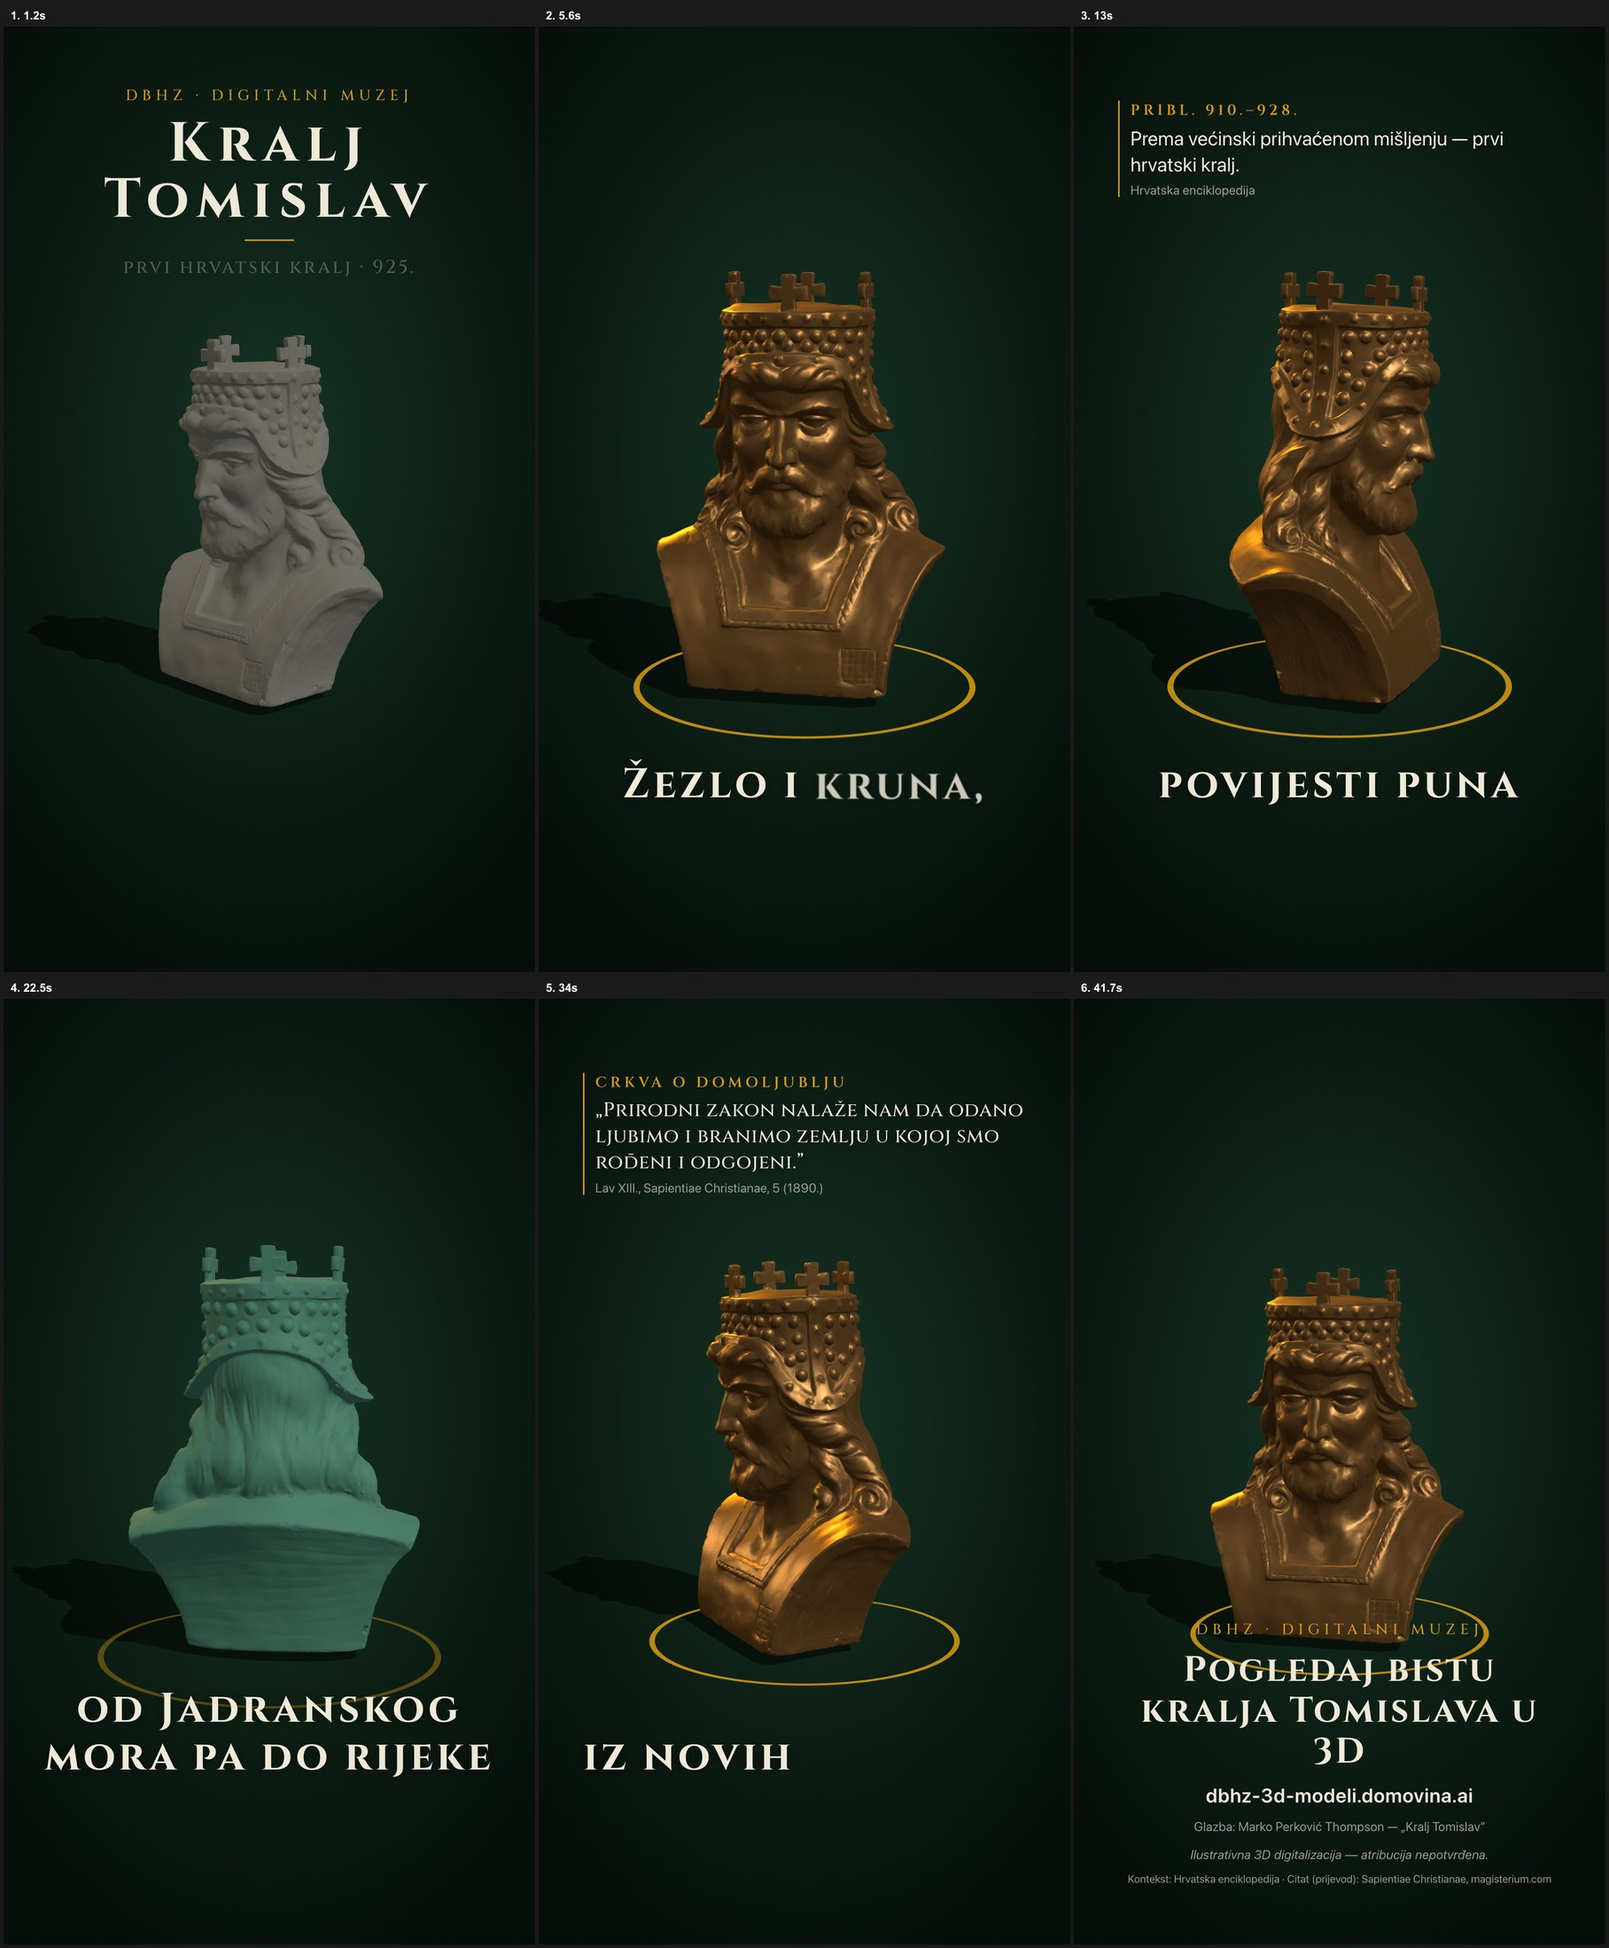
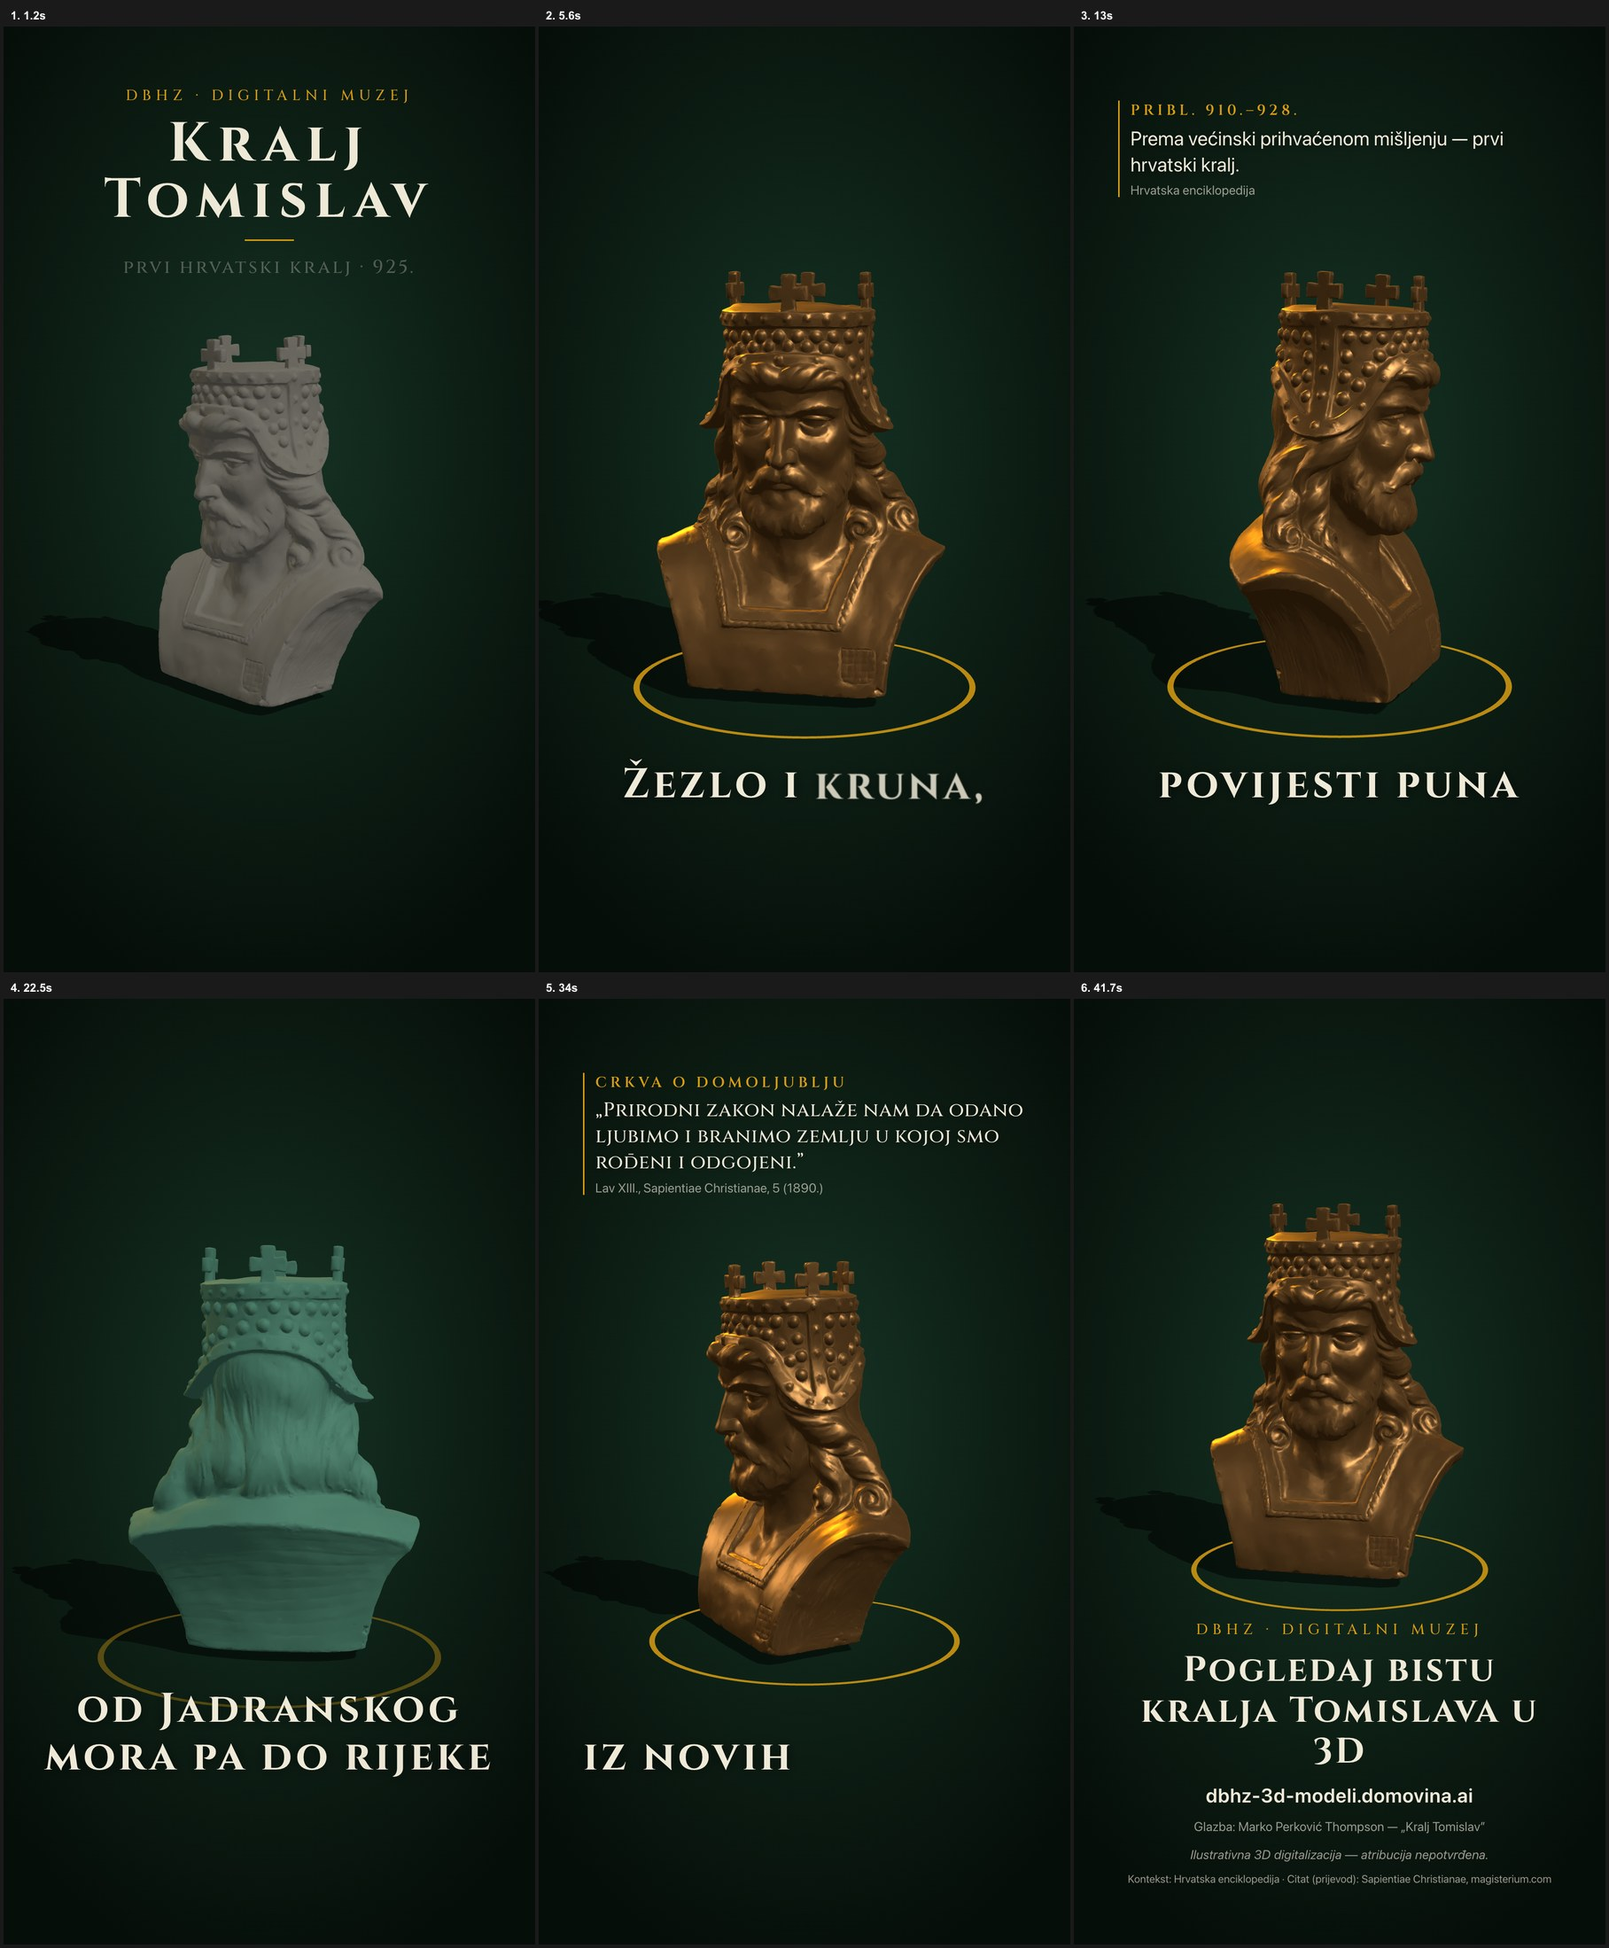
dbhz-kralj-tomislav: storyboard (boards/storyboard.html) za A, B, C, D, outro bez preklapanja u 9:16, skripta za render

Changed region(s): [[0.7401, 0.6187, 0.9251, 0.8662]]

diff --git a/videos/dbhz-kralj-tomislav/boards/storyboard.html b/videos/dbhz-kralj-tomislav/boards/storyboard.html
@@ -1,0 +1,10 @@
+<!doctype html><html lang="hr"><head><meta charset="utf-8"><meta name="viewport" content="width=device-width,initial-scale=1">
+<title>Kralj Tomislav — storyboard</title><style>
+body{margin:0;padding:32px 16px;background:#f4f2ec;color:#1d1d1b;font:15px/1.4 Inter,system-ui,sans-serif}
+h1{font-size:24px;margin:0 0 4px} .act{font-weight:700;font-size:18px;margin:36px 0 12px}
+.red{display:grid;gap:14px} .red.16x9{grid-template-columns:repeat(auto-fill,minmax(300px,1fr))} .red.9x16{grid-template-columns:repeat(auto-fill,minmax(170px,1fr))}
+.frame{background:#fff;border-radius:12px;overflow:hidden;box-shadow:0 1px 3px rgba(0,0,0,.08)} .frame img{width:100%;display:block}
+.title{font-weight:600;padding:8px 10px 0} .time{color:#777;padding:0 10px 10px;font-size:13px}
+</style></head><body><h1>Kralj Tomislav — storyboard druge iteracije</h1>
+<p>Vrijeme je vrijeme filma (intro kartica 0–2 s, pjesma od 2 s, outro 3 s na kraju). Izvori konteksta i citata: analiza/povijesni-kontekst.md.</p>
+<section class="act">A · krunidba + 1. refren — 16:9</section><div class="red 16x9"><div class="frame"><img src="stills/a-16x9/frame-00-at-1.2s.png" alt="" loading="lazy" /><div class="title">01: Intro kartica</div><div class="time">1.2 s</div></div><div class="frame"><img src="stills/a-16x9/frame-01-at-8.6s.png" alt="" loading="lazy" /><div class="title">02: Krunidba — 1. strofa</div><div class="time">8.6 s</div></div><div class="frame"><img src="stills/a-16x9/frame-02-at-22.9s.png" alt="" loading="lazy" /><div class="title">03: Kontekst: 914.</div><div class="time">22.9 s</div></div><div class="frame"><img src="stills/a-16x9/frame-03-at-31.5s.png" alt="" loading="lazy" /><div class="title">04: „Žezlo i kruna”</div><div class="time">31.5 s</div></div><div class="frame"><img src="stills/a-16x9/frame-04-at-48.4s.png" alt="" loading="lazy" /><div class="title">05: Jadran → Drava (patina)</div><div class="time">48.4 s</div></div><div class="frame"><img src="stills/a-16x9/frame-05-at-59.9s.png" alt="" loading="lazy" /><div class="title">06: Citat: Sapientiae Christianae</div><div class="time">59.9 s</div></div><div class="frame"><img src="stills/a-16x9/frame-06-at-67.6s.png" alt="" loading="lazy" /><div class="title">07: Outro kartica</div><div class="time">67.6 s</div></div></div><section class="act">A · krunidba + 1. refren — 9:16</section><div class="red 9x16"><div class="frame"><img src="stills/a-9x16/frame-00-at-1.2s.png" alt="" loading="lazy" /><div class="title">01: Intro kartica</div><div class="time">1.2 s</div></div><div class="frame"><img src="stills/a-9x16/frame-01-at-8.6s.png" alt="" loading="lazy" /><div class="title">02: Krunidba — 1. strofa</div><div class="time">8.6 s</div></div><div class="frame"><img src="stills/a-9x16/frame-02-at-22.9s.png" alt="" loading="lazy" /><div class="title">03: Kontekst: 914.</div><div class="time">22.9 s</div></div><div class="frame"><img src="stills/a-9x16/frame-03-at-31.5s.png" alt="" loading="lazy" /><div class="title">04: „Žezlo i kruna”</div><div class="time">31.5 s</div></div><div class="frame"><img src="stills/a-9x16/frame-04-at-48.4s.png" alt="" loading="lazy" /><div class="title">05: Jadran → Drava (patina)</div><div class="time">48.4 s</div></div><div class="frame"><img src="stills/a-9x16/frame-05-at-59.9s.png" alt="" loading="lazy" /><div class="title">06: Citat: Sapientiae Christianae</div><div class="time">59.9 s</div></div><div class="frame"><img src="stills/a-9x16/frame-06-at-67.6s.png" alt="" loading="lazy" /><div class="title">07: Outro kartica</div><div class="time">67.6 s</div></div></div><section class="act">B · samo refren — 16:9</section><div class="red 16x9"><div class="frame"><img src="stills/b-16x9/frame-00-at-1.2s.png" alt="" loading="lazy" /><div class="title">01: Intro kartica</div><div class="time">1.2 s</div></div><div class="frame"><img src="stills/b-16x9/frame-01-at-5.6s.png" alt="" loading="lazy" /><div class="title">02: „Žezlo i kruna”</div><div class="time">5.6 s</div></div><div class="frame"><img src="stills/b-16x9/frame-02-at-13s.png" alt="" loading="lazy" /><div class="title">03: Kontekst: 910.–928.</div><div class="time">13 s</div></div><div class="frame"><img src="stills/b-16x9/frame-03-at-22.5s.png" alt="" loading="lazy" /><div class="title">04: Jadran → Drava</div><div class="time">22.5 s</div></div><div class="frame"><img src="stills/b-16x9/frame-04-at-34s.png" alt="" loading="lazy" /><div class="title">05: Citat: Sapientiae Christianae</div><div class="time">34 s</div></div><div class="frame"><img src="stills/b-16x9/frame-05-at-41.7s.png" alt="" loading="lazy" /><div class="title">06: Outro kartica</div><div class="time">41.7 s</div></div></div><section class="act">B · samo refren — 9:16</section><div class="red 9x16"><div class="frame"><img src="stills/b-9x16/frame-00-at-1.2s.png" alt="" loading="lazy" /><div class="title">01: Intro kartica</div><div class="time">1.2 s</div></div><div class="frame"><img src="stills/b-9x16/frame-01-at-5.6s.png" alt="" loading="lazy" /><div class="title">02: „Žezlo i kruna”</div><div class="time">5.6 s</div></div><div class="frame"><img src="stills/b-9x16/frame-02-at-13s.png" alt="" loading="lazy" /><div class="title">03: Kontekst: 910.–928.</div><div class="time">13 s</div></div><div class="frame"><img src="stills/b-9x16/frame-03-at-22.5s.png" alt="" loading="lazy" /><div class="title">04: Jadran → Drava</div><div class="time">22.5 s</div></div><div class="frame"><img src="stills/b-9x16/frame-04-at-34s.png" alt="" loading="lazy" /><div class="title">05: Citat: Sapientiae Christianae</div><div class="time">34 s</div></div><div class="frame"><img src="stills/b-9x16/frame-05-at-41.7s.png" alt="" loading="lazy" /><div class="title">06: Outro kartica</div><div class="time">41.7 s</div></div></div><section class="act">D · Kad s perona siđeš — 16:9</section><div class="red 16x9"><div class="frame"><img src="stills/d-16x9/frame-00-at-1.2s.png" alt="" loading="lazy" /><div class="title">01: Intro kartica</div><div class="time">1.2 s</div></div><div class="frame"><img src="stills/d-16x9/frame-01-at-4.7s.png" alt="" loading="lazy" /><div class="title">02: Naslov u instrumentalu</div><div class="time">4.7 s</div></div><div class="frame"><img src="stills/d-16x9/frame-02-at-7.7s.png" alt="" loading="lazy" /><div class="title">03: „Kad s perona siđeš”</div><div class="time">7.7 s</div></div><div class="frame"><img src="stills/d-16x9/frame-03-at-16.7s.png" alt="" loading="lazy" /><div class="title">04: Kontekst: kip u Zagrebu 1947.</div><div class="time">16.7 s</div></div><div class="frame"><img src="stills/d-16x9/frame-04-at-26.7s.png" alt="" loading="lazy" /><div class="title">05: Citat: Ivan Pavao II.</div><div class="time">26.7 s</div></div><div class="frame"><img src="stills/d-16x9/frame-05-at-38.7s.png" alt="" loading="lazy" /><div class="title">06: „Od Osijeka mati…”</div><div class="time">38.7 s</div></div><div class="frame"><img src="stills/d-16x9/frame-06-at-49s.png" alt="" loading="lazy" /><div class="title">07: Outro kartica</div><div class="time">49 s</div></div></div><section class="act">D · Kad s perona siđeš — 9:16</section><div class="red 9x16"><div class="frame"><img src="stills/d-9x16/frame-00-at-1.2s.png" alt="" loading="lazy" /><div class="title">01: Intro kartica</div><div class="time">1.2 s</div></div><div class="frame"><img src="stills/d-9x16/frame-01-at-4.7s.png" alt="" loading="lazy" /><div class="title">02: Naslov u instrumentalu</div><div class="time">4.7 s</div></div><div class="frame"><img src="stills/d-9x16/frame-02-at-7.7s.png" alt="" loading="lazy" /><div class="title">03: „Kad s perona siđeš”</div><div class="time">7.7 s</div></div><div class="frame"><img src="stills/d-9x16/frame-03-at-16.7s.png" alt="" loading="lazy" /><div class="title">04: Kontekst: kip u Zagrebu 1947.</div><div class="time">16.7 s</div></div><div class="frame"><img src="stills/d-9x16/frame-04-at-26.7s.png" alt="" loading="lazy" /><div class="title">05: Citat: Ivan Pavao II.</div><div class="time">26.7 s</div></div><div class="frame"><img src="stills/d-9x16/frame-05-at-38.7s.png" alt="" loading="lazy" /><div class="title">06: „Od Osijeka mati…”</div><div class="time">38.7 s</div></div><div class="frame"><img src="stills/d-9x16/frame-06-at-49s.png" alt="" loading="lazy" /><div class="title">07: Outro kartica</div><div class="time">49 s</div></div></div><section class="act">C · Split → Kraljevstvo tvoje — 16:9</section><div class="red 16x9"><div class="frame"><img src="stills/c-16x9/frame-00-at-1.2s.png" alt="" loading="lazy" /><div class="title">01: Intro kartica</div><div class="time">1.2 s</div></div><div class="frame"><img src="stills/c-16x9/frame-01-at-13.4s.png" alt="" loading="lazy" /><div class="title">02: Kontekst: Split 925.</div><div class="time">13.4 s</div></div><div class="frame"><img src="stills/c-16x9/frame-02-at-24.4s.png" alt="" loading="lazy" /><div class="title">03: Citat: Gaudium et spes (pauza vokala)</div><div class="time">24.4 s</div></div><div class="frame"><img src="stills/c-16x9/frame-03-at-29.4s.png" alt="" loading="lazy" /><div class="title">04: „Još zemlja se mrvi”</div><div class="time">29.4 s</div></div><div class="frame"><img src="stills/c-16x9/frame-04-at-50.9s.png" alt="" loading="lazy" /><div class="title">05: „Kroz Bosnu…”</div><div class="time">50.9 s</div></div><div class="frame"><img src="stills/c-16x9/frame-05-at-67.4s.png" alt="" loading="lazy" /><div class="title">06: „uz Boga, tri boje”</div><div class="time">67.4 s</div></div><div class="frame"><img src="stills/c-16x9/frame-06-at-74.4s.png" alt="" loading="lazy" /><div class="title">07: Outro kartica</div><div class="time">74.4 s</div></div></div><section class="act">C · Split → Kraljevstvo tvoje — 9:16</section><div class="red 9x16"><div class="frame"><img src="stills/c-9x16/frame-00-at-1.2s.png" alt="" loading="lazy" /><div class="title">01: Intro kartica</div><div class="time">1.2 s</div></div><div class="frame"><img src="stills/c-9x16/frame-01-at-13.4s.png" alt="" loading="lazy" /><div class="title">02: Kontekst: Split 925.</div><div class="time">13.4 s</div></div><div class="frame"><img src="stills/c-9x16/frame-02-at-24.4s.png" alt="" loading="lazy" /><div class="title">03: Citat: Gaudium et spes (pauza vokala)</div><div class="time">24.4 s</div></div><div class="frame"><img src="stills/c-9x16/frame-03-at-29.4s.png" alt="" loading="lazy" /><div class="title">04: „Još zemlja se mrvi”</div><div class="time">29.4 s</div></div><div class="frame"><img src="stills/c-9x16/frame-04-at-50.9s.png" alt="" loading="lazy" /><div class="title">05: „Kroz Bosnu…”</div><div class="time">50.9 s</div></div><div class="frame"><img src="stills/c-9x16/frame-05-at-67.4s.png" alt="" loading="lazy" /><div class="title">06: „uz Boga, tri boje”</div><div class="time">67.4 s</div></div><div class="frame"><img src="stills/c-9x16/frame-06-at-74.4s.png" alt="" loading="lazy" /><div class="title">07: Outro kartica</div><div class="time">74.4 s</div></div></div></body></html>

diff --git a/videos/dbhz-kralj-tomislav/bista-scena.js b/videos/dbhz-kralj-tomislav/bista-scena.js
@@ -162,7 +162,8 @@ export function mountBista(canvas, { width, height, layout, film: FILM, base = "
     // Kamera: fiksni polarni kut, udaljenost = FitCamera × faktor iz FILM.
     const dist = baseDistance * layout.zoom * track(cam.distance, t);
     camera.position.setFromSphericalCoords(dist, polar, 0);
-    camera.lookAt(0, track(cam.lookY, t), 0);
+    const outro = smooth((t - (FILM.pjesma - 0.4)) / 1.2) * (layout.outroLookY ?? 0);
+    camera.lookAt(0, track(cam.lookY, t) + outro, 0);
 
     // Rotacija modela: kut je integral brzine iz FILM.rotation (u okretajima).
     // Kut je takav da je lice (frontDeg) prema kameri točno u frontAt.

diff --git a/videos/dbhz-kralj-tomislav/film.js b/videos/dbhz-kralj-tomislav/film.js
@@ -24,7 +24,8 @@ const ZAJEDNICKO = {
   },
   layout: {
     landscape: { shiftX: 0.17, shiftY: 0, zoom: 1 },
-    portrait: { shiftX: 0, shiftY: -0.025, zoom: 0.8 },
+    // outroLookY: na outru bista ide gore jer je kartica ispod nje (bista-scena.js)
+    portrait: { shiftX: 0, shiftY: -0.025, zoom: 0.8, outroLookY: -0.36 },
   },
   fadeOut: 0.6,
   pomak: PRED,

diff --git a/videos/dbhz-kralj-tomislav/generiraj-storyboard.py b/videos/dbhz-kralj-tomislav/generiraj-storyboard.py
@@ -1,0 +1,36 @@
+#!/usr/bin/env python3
+"""boards/storyboard.html iz boards/stills/<isječak>-<format>/ (snapshot-storyboard.sh)."""
+from pathlib import Path
+import re
+
+ROOT = Path(__file__).parent
+OPIS = {
+    "a": ["Intro kartica", "Krunidba — 1. strofa", "Kontekst: 914.", "„Žezlo i kruna”", "Jadran → Drava (patina)", "Citat: Sapientiae Christianae", "Outro kartica"],
+    "b": ["Intro kartica", "„Žezlo i kruna”", "Kontekst: 910.–928.", "Jadran → Drava", "Citat: Sapientiae Christianae", "Outro kartica"],
+    "d": ["Intro kartica", "Naslov u instrumentalu", "„Kad s perona siđeš”", "Kontekst: kip u Zagrebu 1947.", "Citat: Ivan Pavao II.", "„Od Osijeka mati…”", "Outro kartica"],
+    "c": ["Intro kartica", "Kontekst: Split 925.", "Citat: Gaudium et spes (pauza vokala)", "„Još zemlja se mrvi”", "„Kroz Bosnu…”", "„uz Boga, tri boje”", "Outro kartica"],
+}
+NASLOV = {"a": "A · krunidba + 1. refren", "b": "B · samo refren", "d": "D · Kad s perona siđeš", "c": "C · Split → Kraljevstvo tvoje"}
+dijelovi = []
+for film in "abdc":
+    for fmt in ("16x9", "9x16"):
+        d = ROOT / "boards" / "stills" / f"{film}-{fmt}"
+        stills = sorted(d.glob("frame-*.png"))
+        dijelovi.append(f'<section class="act">{NASLOV[film]} — {fmt.replace("x", ":")}</section><div class="red {fmt}">')
+        for i, s in enumerate(stills):
+            t = re.search(r"at-([\d.]+)s", s.name).group(1)
+            dijelovi.append(f'<div class="frame"><img src="stills/{film}-{fmt}/{s.name}" alt="" loading="lazy" />'
+                            f'<div class="title">{i + 1:02d}: {OPIS[film][i]}</div><div class="time">{t} s</div></div>')
+        dijelovi.append("</div>")
+html = f"""<!doctype html><html lang="hr"><head><meta charset="utf-8"><meta name="viewport" content="width=device-width,initial-scale=1">
+<title>Kralj Tomislav — storyboard</title><style>
+body{{margin:0;padding:32px 16px;background:#f4f2ec;color:#1d1d1b;font:15px/1.4 Inter,system-ui,sans-serif}}
+h1{{font-size:24px;margin:0 0 4px}} .act{{font-weight:700;font-size:18px;margin:36px 0 12px}}
+.red{{display:grid;gap:14px}} .red.16x9{{grid-template-columns:repeat(auto-fill,minmax(300px,1fr))}} .red.9x16{{grid-template-columns:repeat(auto-fill,minmax(170px,1fr))}}
+.frame{{background:#fff;border-radius:12px;overflow:hidden;box-shadow:0 1px 3px rgba(0,0,0,.08)}} .frame img{{width:100%;display:block}}
+.title{{font-weight:600;padding:8px 10px 0}} .time{{color:#777;padding:0 10px 10px;font-size:13px}}
+</style></head><body><h1>Kralj Tomislav — storyboard druge iteracije</h1>
+<p>Vrijeme je vrijeme filma (intro kartica 0–2 s, pjesma od 2 s, outro 3 s na kraju). Izvori konteksta i citata: analiza/povijesni-kontekst.md.</p>
+{''.join(dijelovi)}</body></html>"""
+(ROOT / "boards" / "storyboard.html").write_text(html)
+print("boards/storyboard.html")
